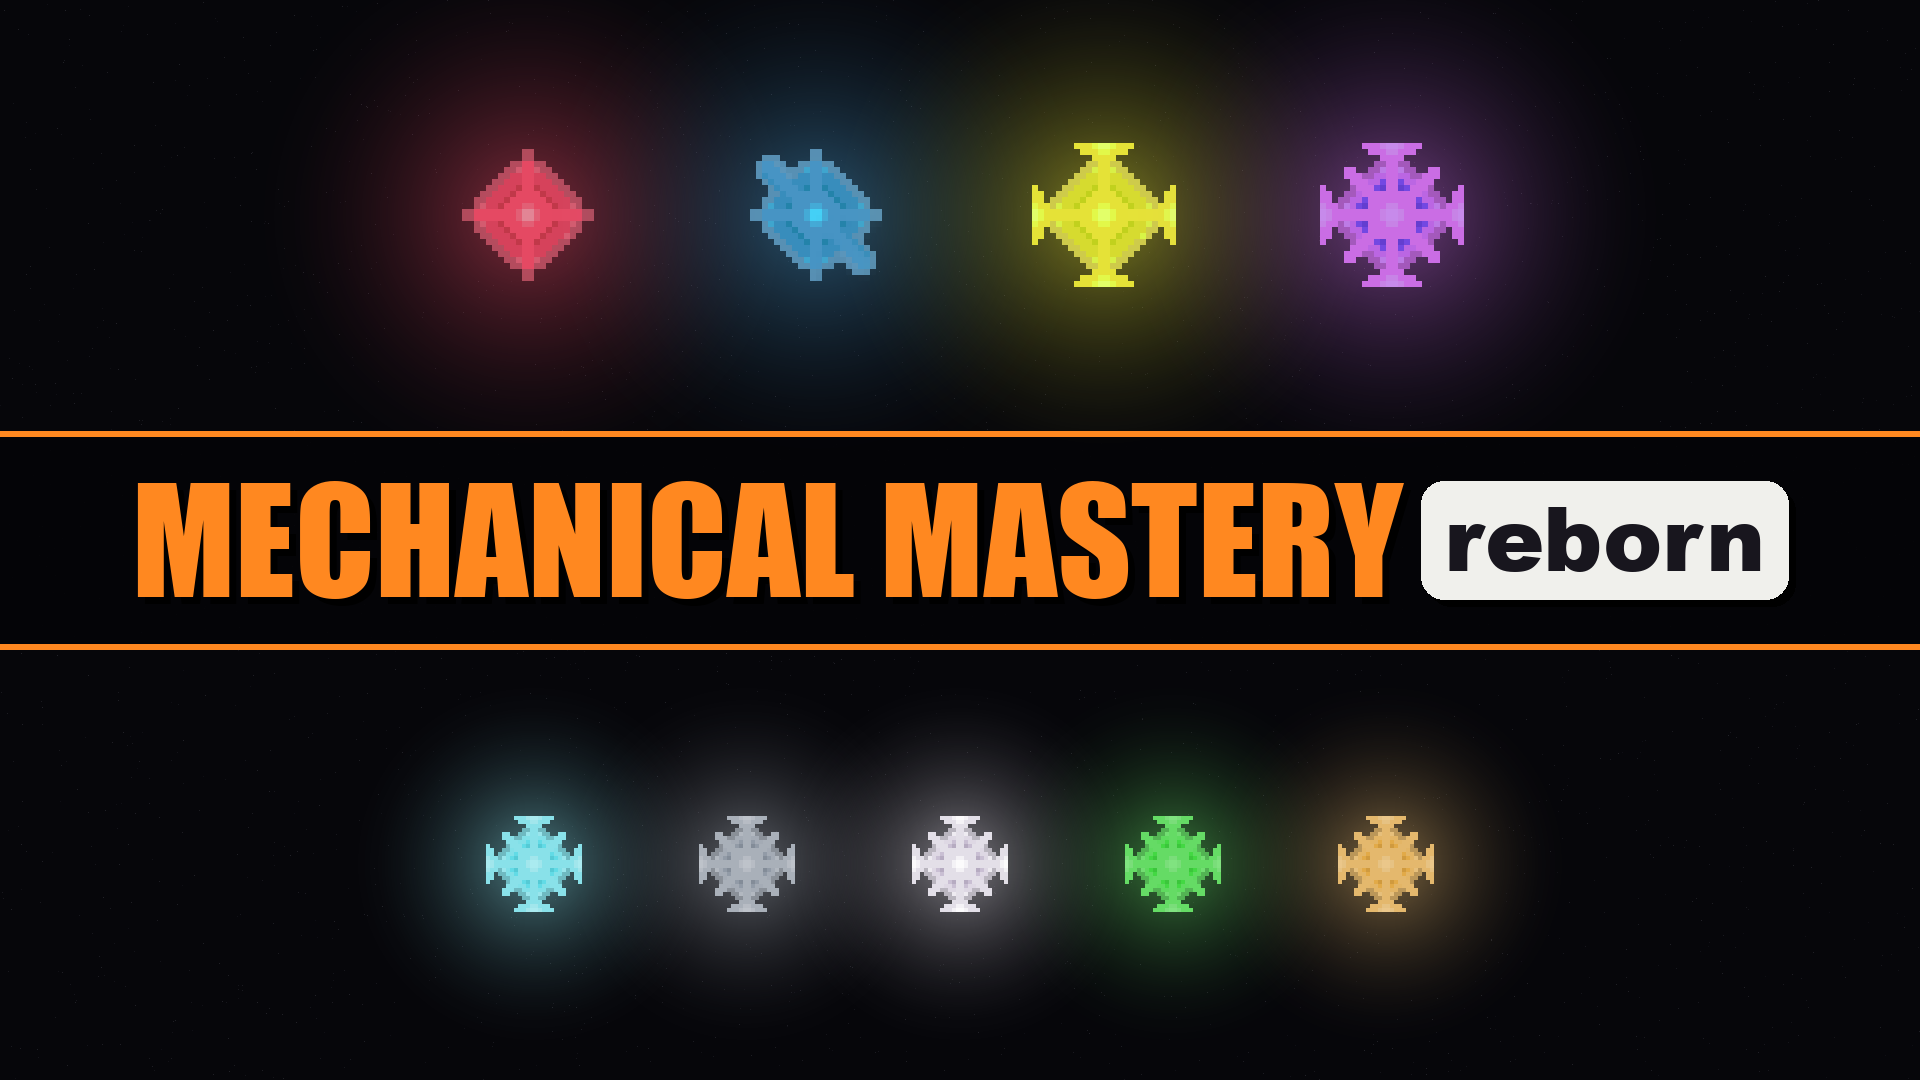
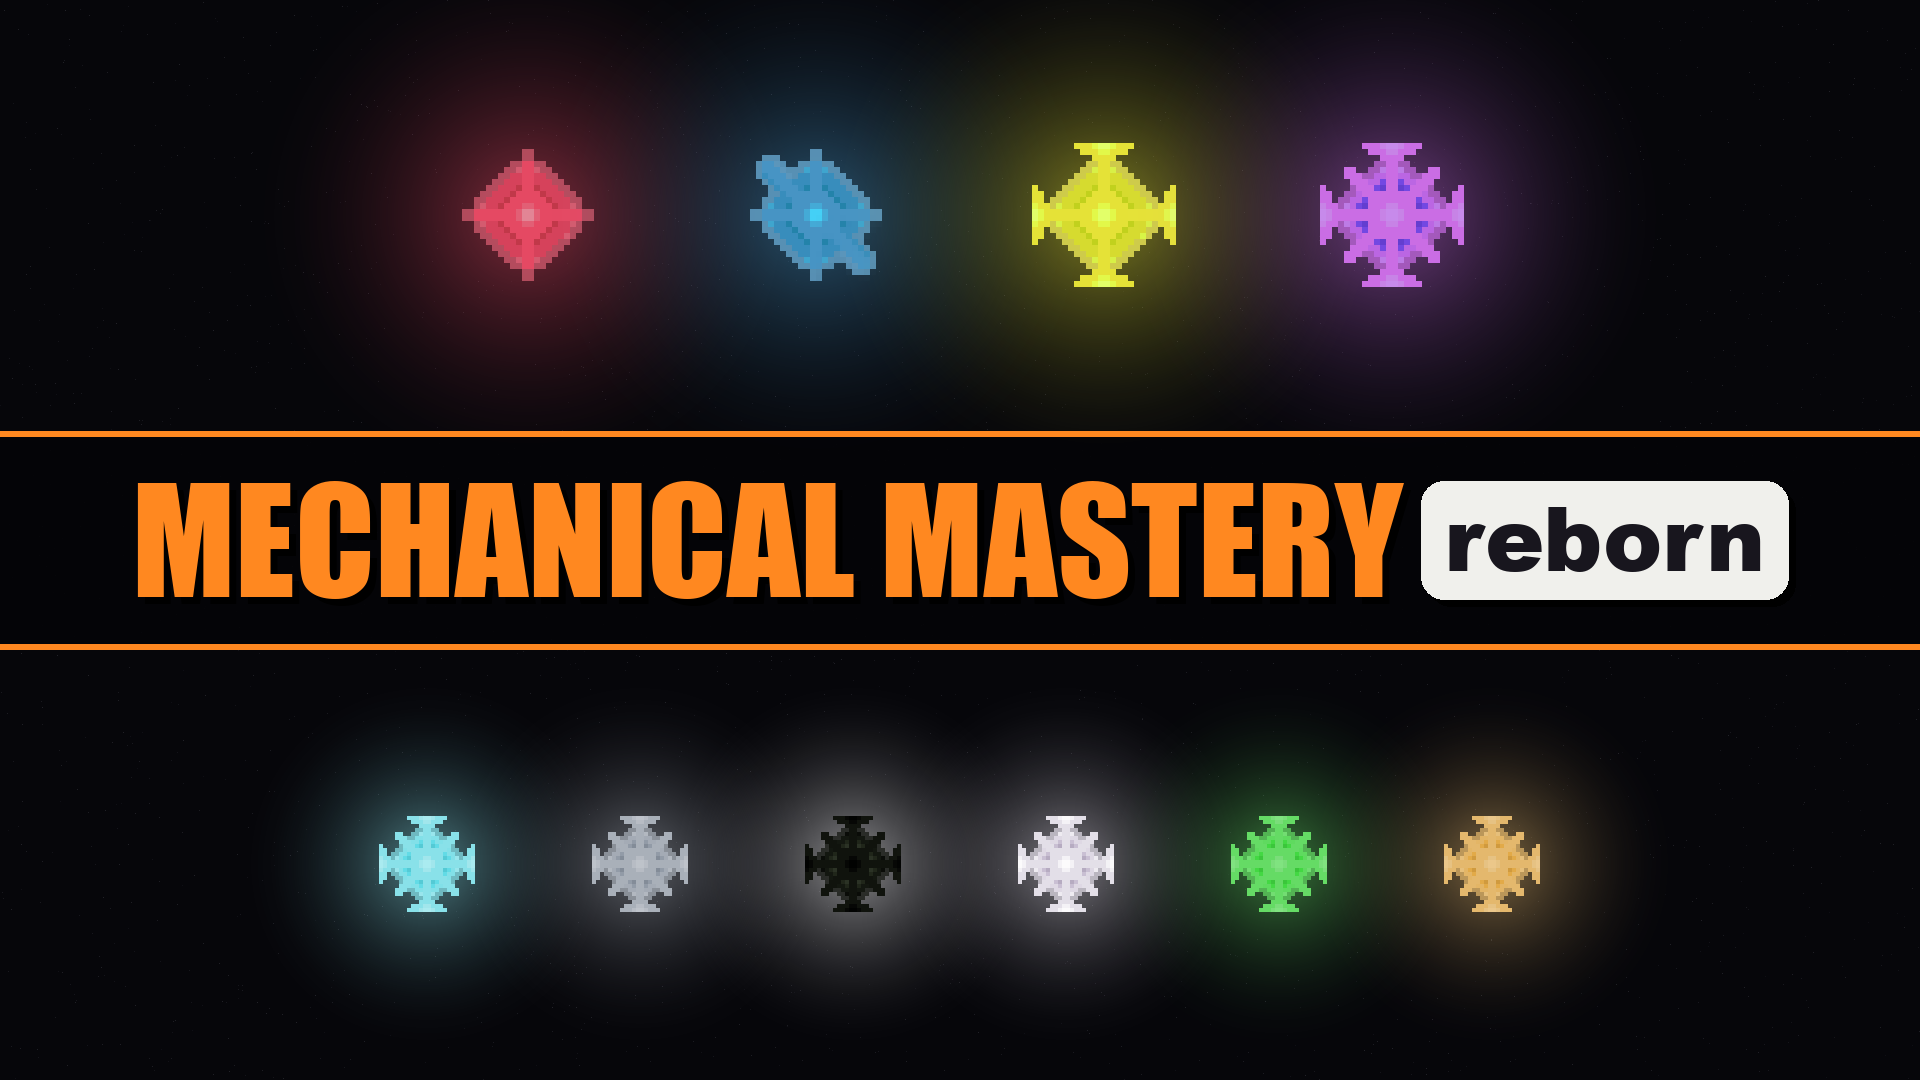
Reborn's pack art pairs Nullessence, glowing white, with Quintessence beneath the band (#274)

Changed region(s): [[0.1562, 0.7028, 0.8438, 0.8861]]

diff --git a/MMR26.1.2/publish/make-cover.py b/MMR26.1.2/publish/make-cover.py
@@ -18,7 +18,8 @@
 #   - the band, dark, ruled top and bottom in the accent, holding the suite's title turned around, as
 #     A Touch of Darkness's is: "MECHANICAL MASTERY" in Impact caps, in the accent's orange,
 #     then the suite's white pill holding "reborn". The icon stacks them;
-#   - beneath the band, the four Transmuted Essences with Quintessence in their middle.
+#   - beneath the band, the four Transmuted Essences with Nullessence and Quintessence, the last
+#     stand's two sides, paired in their middle.
 #
 # Its art is the companion mod's own textures only (mod/NOTICE), nothing of Mojang's. Its fonts are
 # found on the system, with fallbacks; none is committed.
@@ -35,14 +36,16 @@ BAND = (4, 4, 7, 235)
 ACCENT = (255, 136, 32)  # orange
 PILL = (240, 240, 236)
 PILL_TEXT = (24, 22, 30)
-# each essence glows in its texture's commonest colour
+# each essence glows in its texture's commonest colour, but Nullessence, near-black, glows white so it
+# stands out of the void
+GLOWS = {'nullessence': (255, 255, 255)}
 # the four tiers, lowest first
 TIERS = ['basic_mechanical_essence', 'regular_mechanical_essence', 'improved_mechanical_essence',
          'advanced_mechanical_essence']
-# the Transmuted Essences, two each side of Quintessence; Quintessence's texture is animated, and its
-# first frame is drawn
+# the Transmuted Essences, two each side of Nullessence and Quintessence; those two are animated, and
+# their first frames are drawn
 TRANSMUTED = ['galvanic_essence', 'warding_essence', 'vital_essence', 'aureate_essence']
-QUINTESSENCE = 'quintessence'
+LAST_STAND = ['nullessence', 'quintessence']
 TITLE, WORD = 'MECHANICAL MASTERY', 'reborn'
 IMPACT = ['/System/Library/Fonts/Supplemental/Impact.ttf', '/usr/share/fonts/TTF/impact.ttf',
           os.path.expanduser('~/.local/share/fonts/msfonts/impact.ttf'), '/usr/share/fonts/noto/NotoSans-Black.ttf']
@@ -72,14 +75,16 @@ def glow(rgb, r, peak=140):
 
 
 def essence(img, name, cx, cy, px):
-    g = glow(colour(name), int(px * 1.5))
+    g = glow(GLOWS.get(name) or colour(name), int(px * 1.5))
     img.alpha_composite(g, (cx - g.width // 2, cy - g.height // 2))
     s = texture(name).resize((px, px), Image.NEAREST)
     img.alpha_composite(s, (cx - px // 2, cy - px // 2))
 
 
 def row(img, items, cy, px, gap):
-    # items in a row centred on the width, px each with gap between them
+    # items in a row centred on the width, px each with gap between them, or less where the width
+    # holds no more
+    gap = min(gap, (img.width - len(items) * px) // (len(items) + 1))
     x0 = (img.width - len(items) * px - (len(items) - 1) * gap) // 2 + px // 2
     for i, name in enumerate(items):
         essence(img, name, x0 + i * (px + gap), cy, px)
@@ -121,7 +126,7 @@ def make(W, H, out, title_size, px, under_px, band_y, stacked=False):
 
     img = void(W, H)
     row(img, TIERS, top // 2, px, px // 2)
-    under = TRANSMUTED[:2] + [QUINTESSENCE] + TRANSMUTED[2:]
+    under = TRANSMUTED[:2] + LAST_STAND + TRANSMUTED[2:]
     row(img, under, (bottom + H) // 2, under_px, under_px * 2 // 3)
 
     band = Image.new('RGBA', (W, H), (0, 0, 0, 0))
